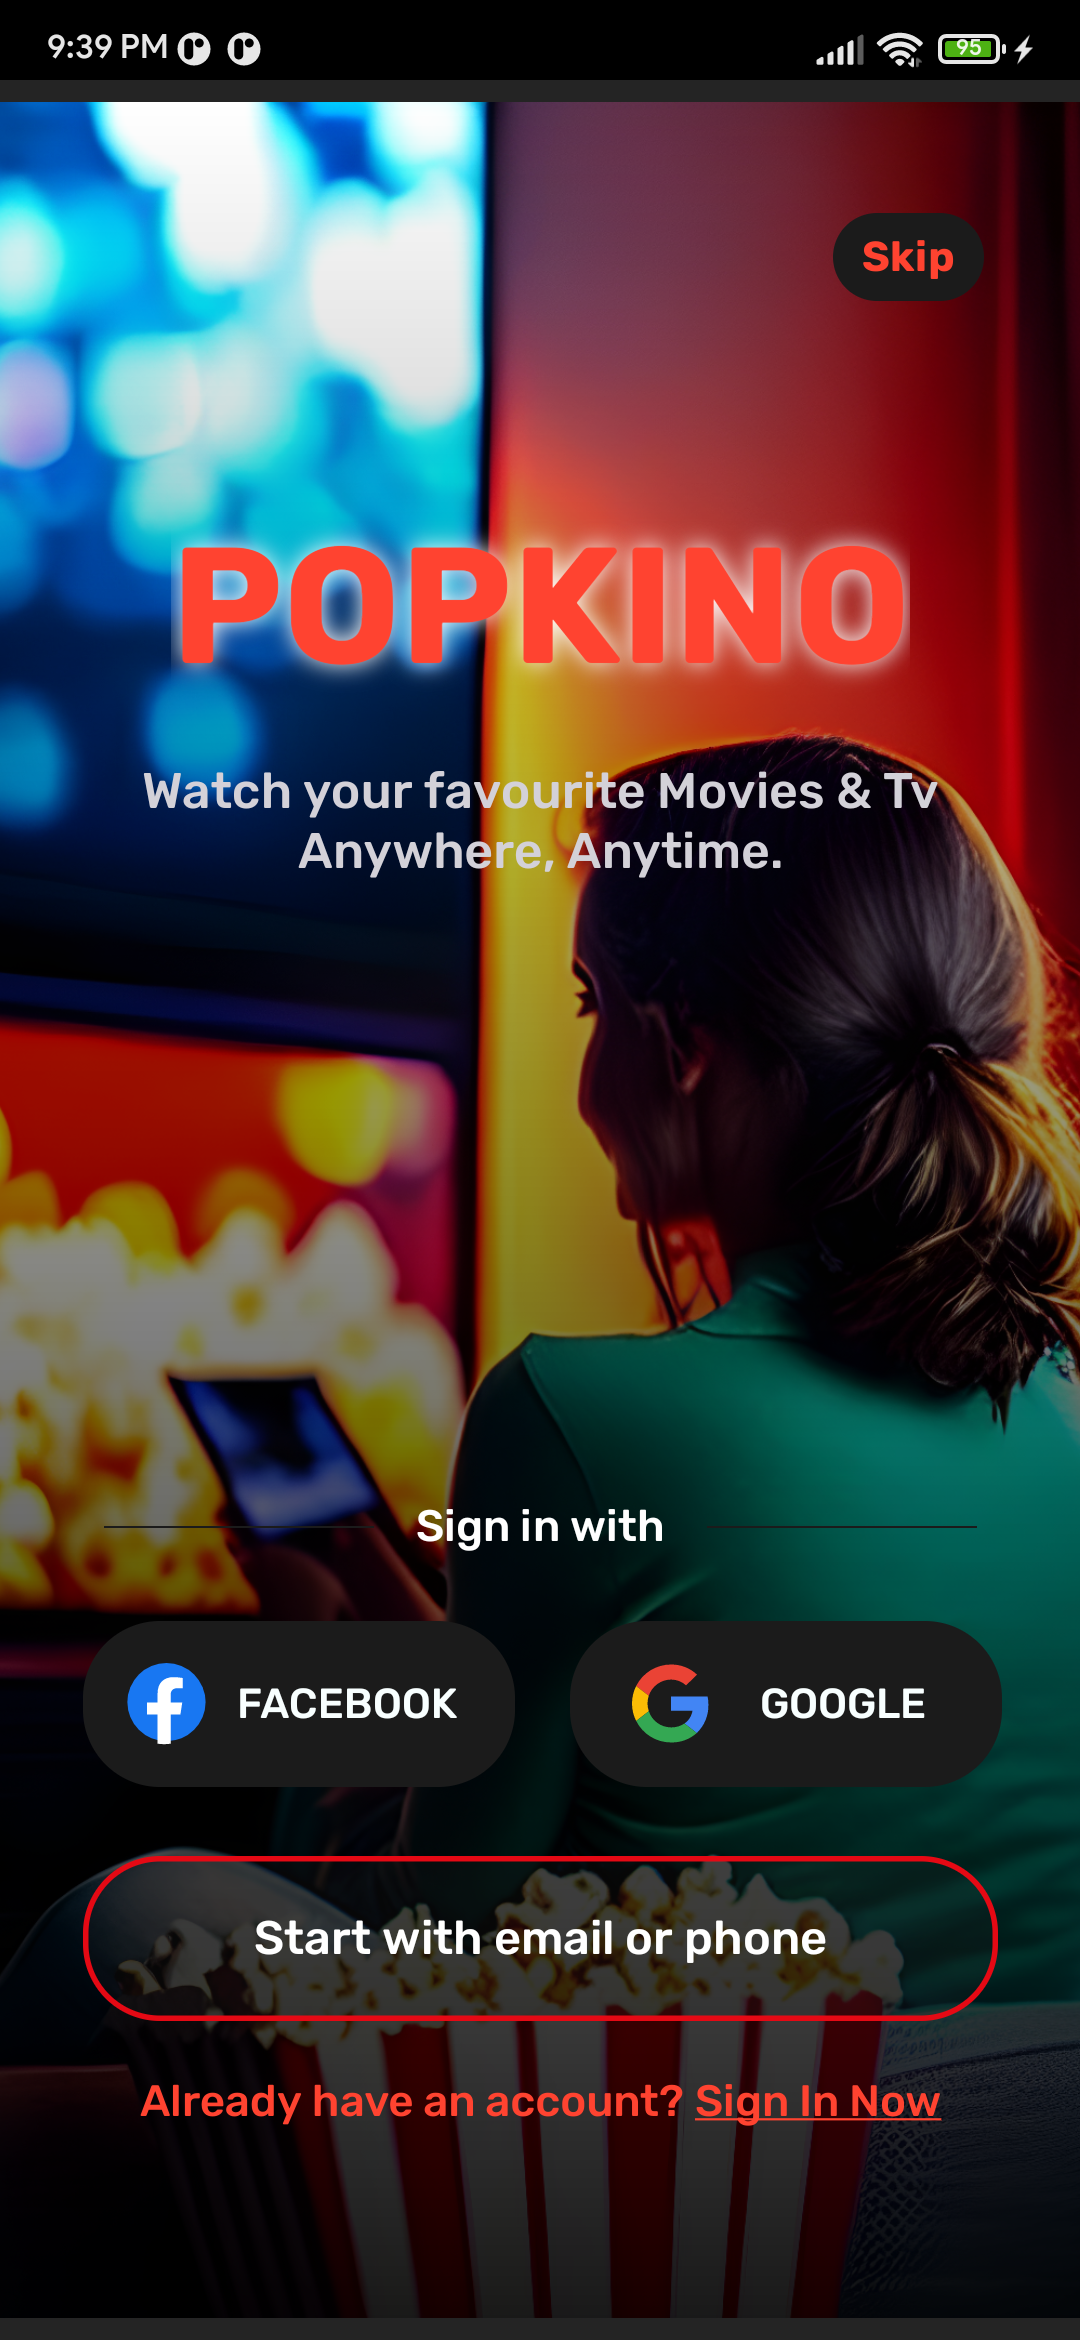
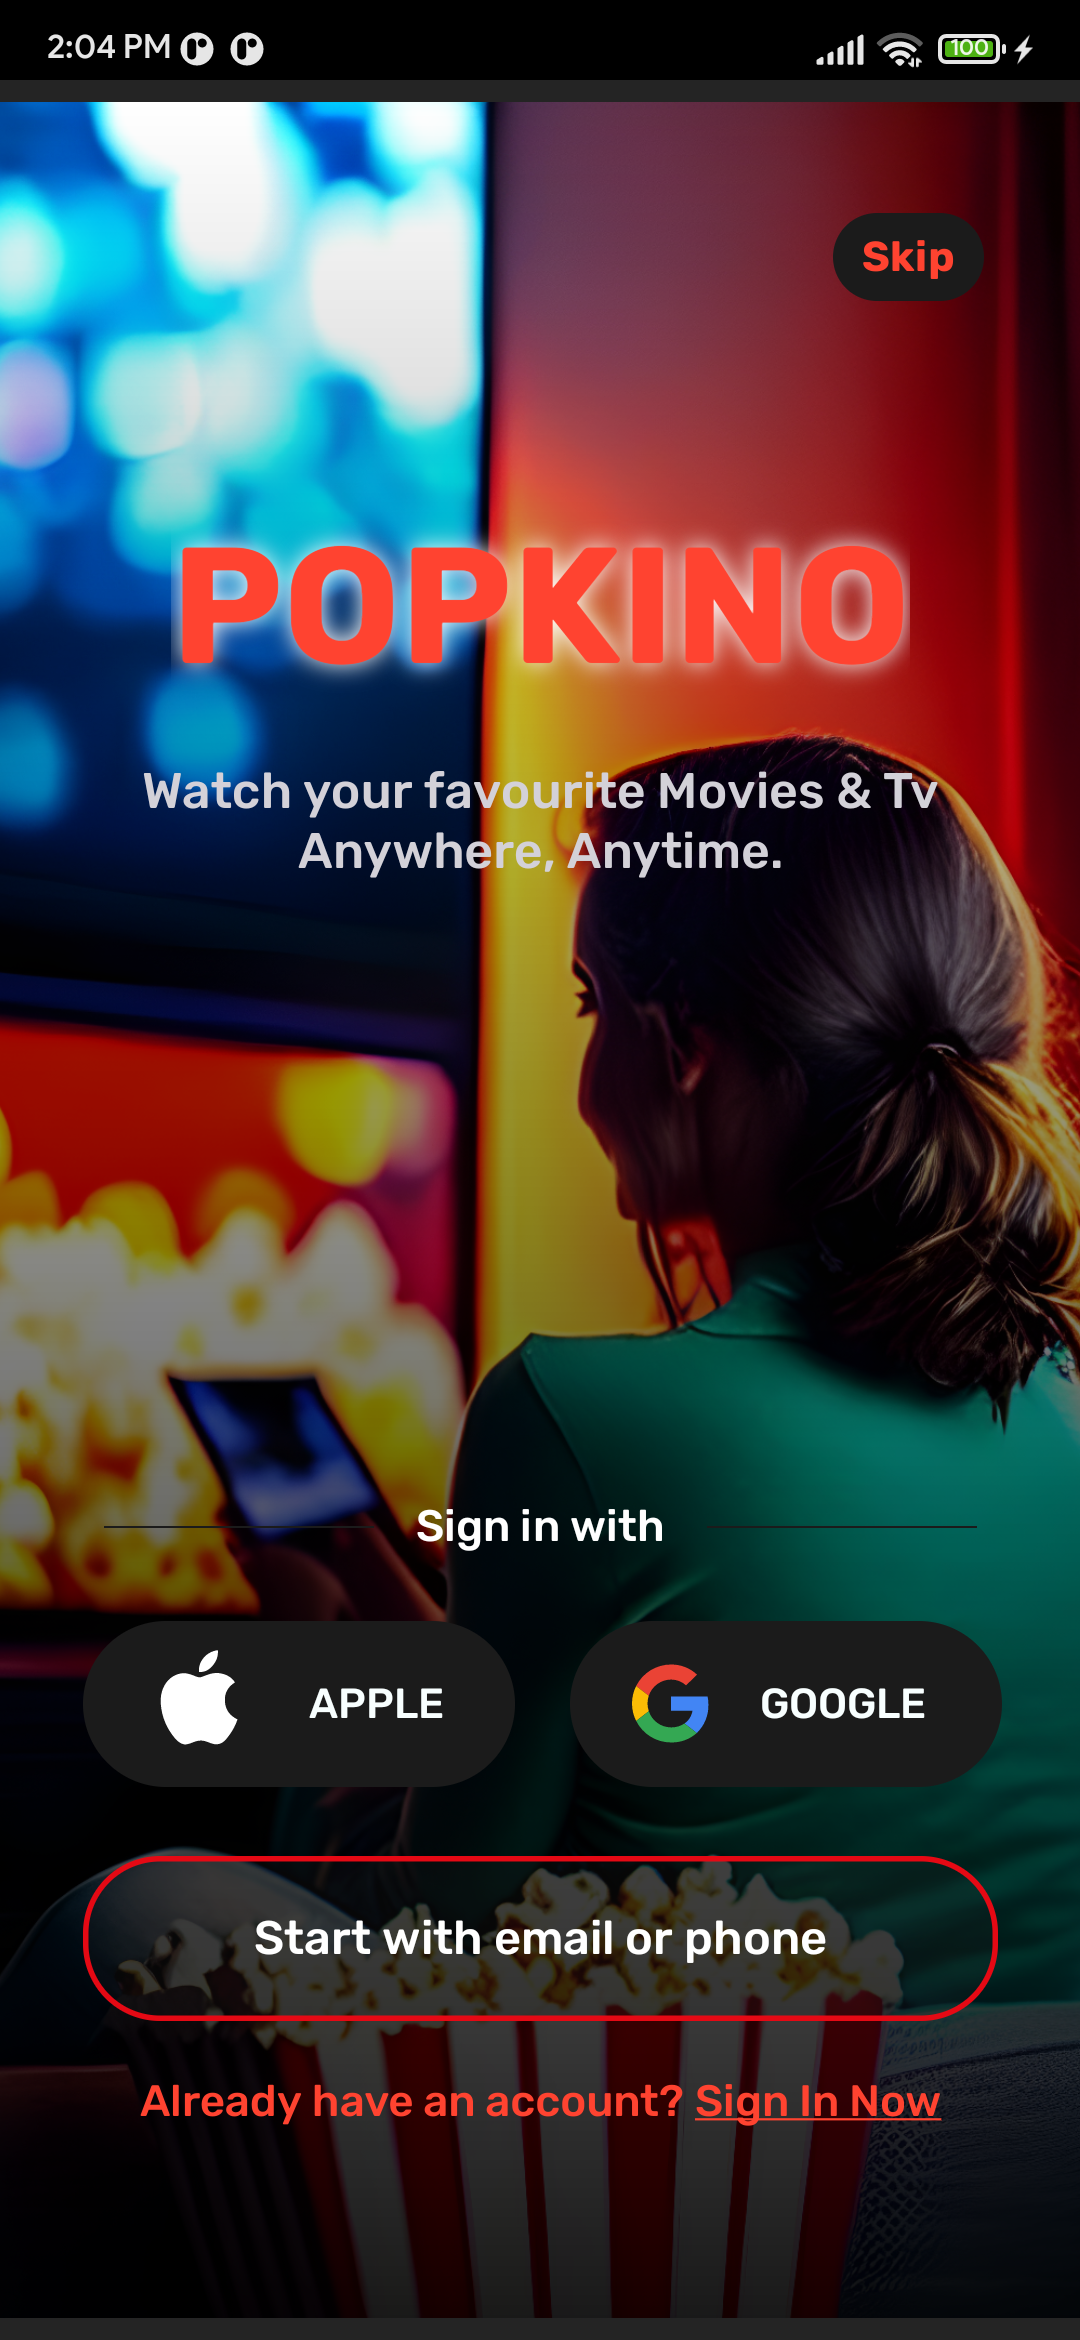
new commit

diff --git a/src/assets/Icons/FBLogo.js b/src/assets/Icons/FBLogo.js
@@ -4,14 +4,17 @@ import Svg, {Path, Rect} from 'react-native-svg';
 export const FBLogo = () => (
   <Svg
     xmlns="http://www.w3.org/2000/svg"
-    width="29"
-    height="30"
-    viewBox="0 0 29 30"
+    width="45"
+    height="45"
+    viewBox="2 -2 18 30"
     fill="none">
-    <Rect width="28.62" height="28.62" rx="14.31" fill="#1877F2" />
     <Path
-      d="M19.4036 18.868L20.0816 14.4622H15.8401V11.6041C15.8401 10.3974 16.4314 9.22241 18.3311 9.22241H20.2607V5.47072C19.1284 5.28838 17.9842 5.18883 16.8374 5.17285C13.3427 5.17285 11.0607 7.28337 11.0607 11.103V14.4615H7.17725V18.868H11.0607V29.5197C12.6442 29.7658 14.2565 29.7658 15.8401 29.5197V18.868H19.4036Z"
-      fill="white"
+      d="M15.769,0c0.053,0,0.106,0,0.162,0c0.13,1.606-0.483,2.806-1.228,3.675c-0.731,0.863-1.732,1.7-3.351,1.573 c-0.108-1.583,0.506-2.694,1.25-3.561C13.292,0.879,14.557,0.16,15.769,0z"
+      fill="#000000"
+    />
+    <Path
+      d="M20.67,16.716c0,0.016,0,0.03,0,0.045c-0.455,1.378-1.104,2.559-1.896,3.655c-0.723,0.995-1.609,2.334-3.191,2.334 c-1.367,0-2.275-0.879-3.676-0.903c-1.482-0.024-2.297,0.735-3.652,0.926c-0.155,0-0.31,0-0.462,0 c-0.995-0.144-1.798-0.932-2.383-1.642c-1.725-2.098-3.058-4.808-3.306-8.276c0-0.34,0-0.679,0-1.019 c0.105-2.482,1.311-4.5,2.914-5.478c0.846-0.52,2.009-0.963,3.304-0.765c0.555,0.086,1.122,0.276,1.619,0.464 c0.471,0.181,1.06,0.502,1.618,0.485c0.378-0.011,0.754-0.208,1.135-0.347c1.116-0.403,2.21-0.865,3.652-0.648 c1.733,0.262,2.963,1.032,3.723,2.22c-1.466,0.933-2.625,2.339-2.427,4.74C17.818,14.688,19.086,15.964,20.67,16.716z"
+      fill="#000000"
     />
   </Svg>
 );

diff --git a/src/components/LoginButtonGroup.js b/src/components/LoginButtonGroup.js
@@ -9,7 +9,7 @@ export const LoginButtonGroup = () => {
   return (
     <View style={styles.btnContainer}>
       <ActionButton
-        title={'FACEBOOK'}
+        title={'APPLE'}
         customStyle={styles.btnStyle}
         customTextStyle={styles.btnText}
         icon={<FBLogo />}
@@ -39,7 +39,7 @@ const styles = StyleSheet.create({
     width: CommonStyles.width * 0.4,
     justifyContent: 'space-evenly',
     alignItems: 'center',
-    borderRadius: 28,
+    borderRadius: 100,
     flexDirection: 'row',
   },
   gap: {

diff --git a/src/screens/Signup.js b/src/screens/Signup.js
@@ -86,7 +86,7 @@ const Signup = ({navigation}) => {
       <View style={styles.footerTextContainer}>
         <Text style={styles.footerText1}>Already have an account? </Text>
         <ActionButton
-          title={'login'}
+          title={'Log in'}
           onPressBtn={() => navigation.navigate(Route.SIGNIN)}
           customTextStyle={[
             styles.footerText2,
